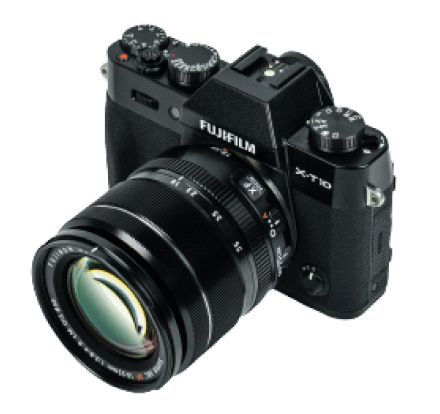
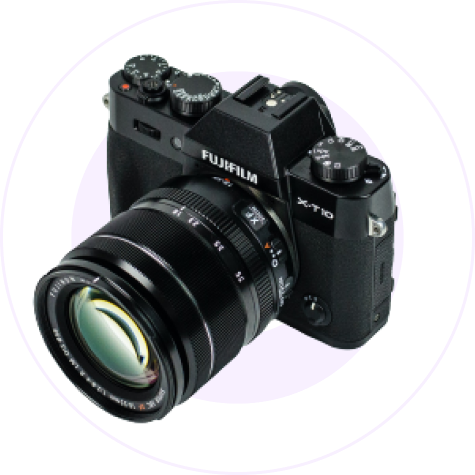
hero section complete

Changed region(s): [[0.0591, 0.058, 0.9159, 0.9565]]

diff --git a/assets/css/style.css b/assets/css/style.css
@@ -2,6 +2,7 @@
   1. default css 
   2. main css
     2.1. header
+    2.2. hero
   3.
 */
 
@@ -52,13 +53,13 @@ header .container {
 }
 .main-menu li {
   display: inline-block;
-  padding: 10px;
+  padding: 10px 20px;
   margin: 5px;
   transition: 0.5s;
 }
 .main-menu li:hover {
   background: #e02c6d;
-  border-radius: 20px;
+  border-radius: 3px;
 }
 .main-menu li:hover a {
   color: #fff;
@@ -70,4 +71,49 @@ header .container {
   transition: 0.5s;
 }
 .main-menu a svg {
+}
+/* hero */
+.hero {
+}
+
+.hero .container {
+  width: 1300px;
+  display: flex;
+  align-items: center;
+  justify-content: space-between;
+}
+.hero-content {
+  width: 582px;
+  height: 270px;
+}
+.hero-content h1 {
+  font-weight: bold;
+  font-size: 52px;
+  line-height: 1.3;
+  margin: 0;
+}
+.hero-content p {
+  font-weight: 600;
+  font-size: 16px;
+}
+button {
+  padding: 10px 24px;
+  background-color: #e02c6d;
+  color: #fff;
+  border: none;
+  outline: none;
+  font-weight: bold;
+  font-size: 16px;
+  border-radius: 20px;
+  margin: 16px 0;
+}
+button svg {
+  margin: 0 5px;
+}
+.hero-image {
+  text-align: center;
+  width: 440px;
+  height: 414px;
+}
+.hero-image img {
 }

diff --git a/index.html b/index.html
@@ -48,7 +48,27 @@
       </div>
     </header>
     <!-- header end -->
-
+    <!-- hero start -->
+    <section class="hero">
+      <div class="container">
+        <div class="hero-content">
+          <h1>
+            Start your Journey as <br />
+            Influencer
+          </h1>
+          <p>
+            Lorem ipsum dolor sit amet consectetur adipisicing elit. Dolorum
+            <br />
+            mollitia, corporis aliquam assumenda aperiam sapiente!
+          </p>
+          <button>Preebook now <i class="fas fa-arrow-right"></i></button>
+        </div>
+        <div class="hero-image">
+          <img src="assets/img/main-camera.png" alt="" />
+        </div>
+      </div>
+    </section>
+    <!-- hero end -->
     <!-- scripts -->
     <script src="assets/third-party/fontawesome-free-5.15.3/js/all.js"></script>
   </body>
